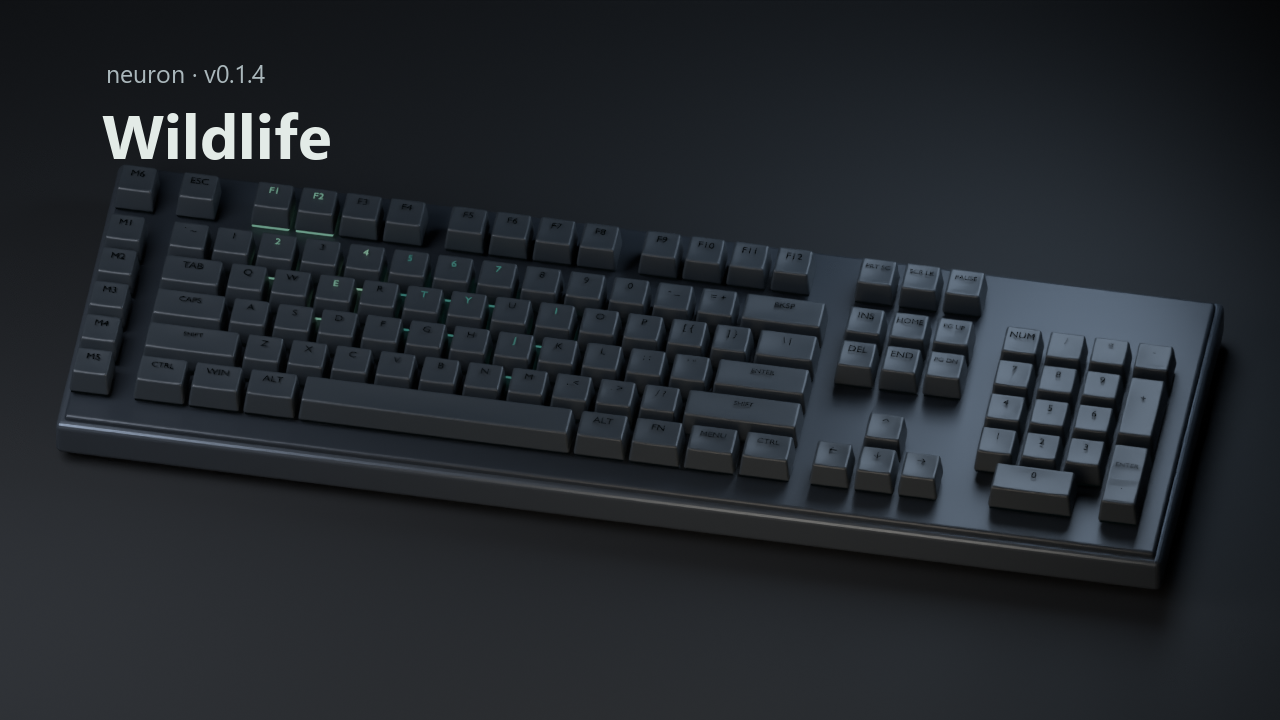
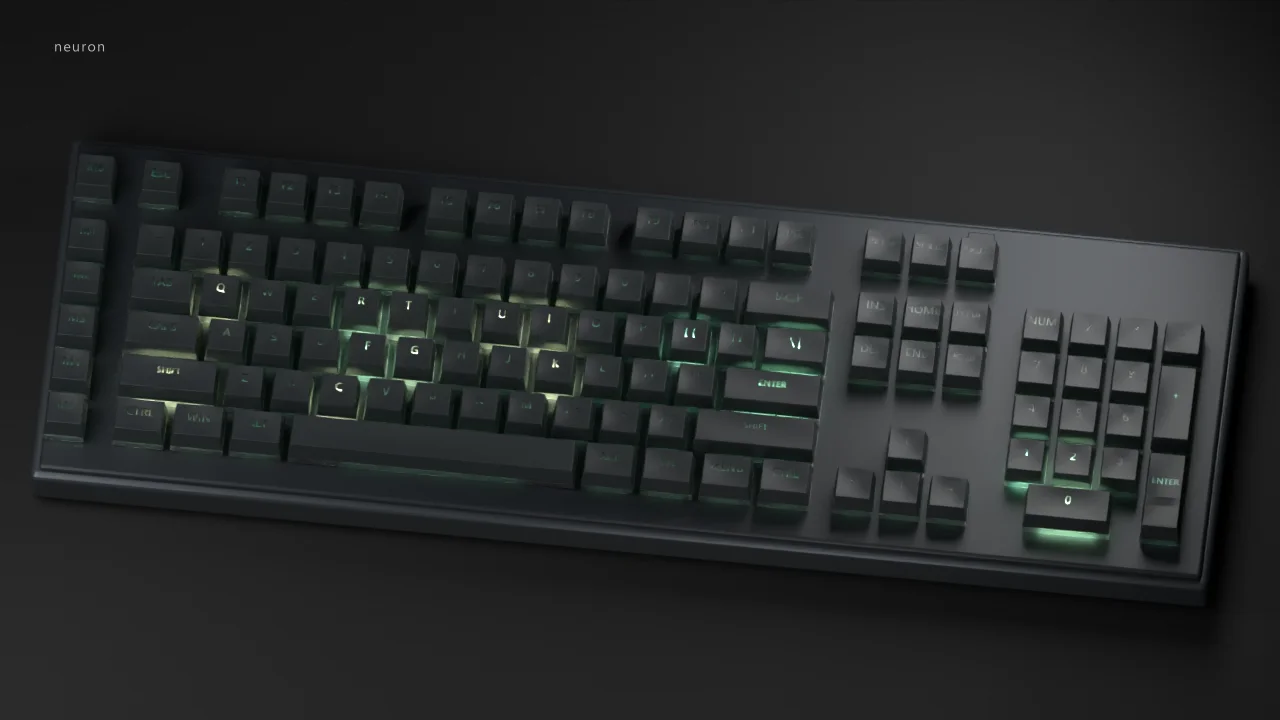
Verify existing stop editor and polish approved Wildlife showcase

Changed region(s): [[0.0312, 0.1528, 1.0, 0.8861], [0.0938, 0.0917, 0.2188, 0.1222], [0.0312, 0.0611, 0.0625, 0.0917]]

diff --git a/crates/neuron-app/src/readme_shots.rs b/crates/neuron-app/src/readme_shots.rs
@@ -8,6 +8,7 @@
 //! read), `SLINT_BACKEND=winit-software` and `SLINT_SCALE_FACTOR=2` for the window scenes:
 //! `NEURON_SHOT_SCENE=<device|lighting|input|weave|system|profiles> NEURON_SHOT_OUT=<png>
 //! cargo test -p neuron-app --bin neuron-app -- --ignored --exact readme_shots::shot`.
+//! `NEURON_SHOT_GRADIENT=1` renders a three-stop Uniform palette in the lighting scene.
 //! `overlay_radial`, `overlay_glyph` and `notif_cards` dump the real overlay renderer's frames into the
 //! directory named by `NEURON_SHOT_OUT`. Seeded state is demo data; devices are phantoms. The
 //! `docs/media` images are these renders composed over a wallpaper crop with Pillow (not committed).
@@ -119,6 +120,13 @@ fn shot() {
 }
 
 fn save_snapshot(app: &AppWindow, path: &str) {
+    if env("NEURON_SHOT_SCENE").as_deref() == Some("lighting") && env("NEURON_SHOT_GRADIENT").is_some() {
+        let st = app.global::<State>();
+        assert_eq!(st.get_light_stops().row_count(), 3, "gradient must survive device restoration and persistence");
+        let pixels = st.get_grid_px();
+        let first = pixels.row_data(0).unwrap();
+        assert!((1..pixels.row_count()).any(|i| pixels.row_data(i).unwrap() != first), "preview must contain a gradient");
+    }
     let shot = app.window().take_snapshot().unwrap();
     let rgb: Vec<u8> = shot.as_bytes().chunks_exact(4).flat_map(|p| [p[0], p[1], p[2]]).collect();
     image::save_buffer(path, &rgb, shot.width(), shot.height(), image::ColorType::Rgb8).unwrap();
@@ -148,7 +156,8 @@ fn select_and_open(app: &AppWindow, scene: &str) {
     st.set_input_view(view);
     if scene == "lighting" {
         st.set_window_shown(true);
-        st.invoke_pick_tile("aurora".into());
+        let gradient = env("NEURON_SHOT_GRADIENT").is_some();
+        st.invoke_pick_tile(if gradient { "static" } else { "aurora" }.into());
         let weak = app.as_weak();
         let ticker = slint::Timer::default();
         ticker.start(slint::TimerMode::Repeated, Duration::from_millis(80), move || {
@@ -164,6 +173,20 @@ fn select_and_open(app: &AppWindow, scene: &str) {
 /// seed cannot overwrite it before the snapshot.
 fn finish_seed(app: &AppWindow, scene: &str) {
     let st = app.global::<State>();
+    if scene == "lighting" && env("NEURON_SHOT_GRADIENT").is_some() {
+        // Device selection restores saved lighting asynchronously; edit only after its readouts settle.
+        assert_ne!(st.get_idle_readout().as_str(), "…");
+        st.invoke_pick_tile("static".into());
+        st.invoke_add_stop(0.5);
+        st.invoke_add_stop(0.5);
+        let count = st.get_light_stops().row_count();
+        assert_eq!(count, 3);
+        st.invoke_set_stop_color(0, "FF3D56".into());
+        st.invoke_set_stop_color((count - 1) as i32, "45E0B5".into());
+        st.invoke_set_stop_color(1, "668CFF".into());
+        st.invoke_move_stop((count - 1) as i32, 1.0);
+        st.invoke_move_stop(1, 0.5);
+    }
     // readouts a phantom bus cannot answer: plausible and consistent with the device defs
     let rows = st.get_devices();
     let mut keep = Vec::new();

diff --git a/docs/STATUS.md b/docs/STATUS.md
@@ -45,9 +45,11 @@ For device-write evidence and feature gates, see the [README ledger](../README.m
 
 ## Current engineering checks
 
-On Windows on 2026-10-03, `./validate.ps1 -Mode full -Locked` passed for the v0.1.4 candidate: 1,179 core tests, 261 app tests and 239 host tests, plus integration tests, strict Clippy, gated-write feature checks, an optimized release build and the CI-safe ignored tests. Disarmed software-renderer screenshots checked the controller editor and lighting page. The Wildlife promotional mock reads the installed v0.1.4 app's resolved RGB frames through its read-only OpenRGB controller-data interface, retaining the live compositor clock and input observations. Captured RGB arrays match the original packet bytes. The existing 6×22 key map drives a Cycles OptiX render on an RTX 3060, with unit LED emission, Standard colour management and normal-speed 30 fps playback; this does not establish physical LED behavior. No new Linux, Tartarus or Switch Pro hardware run was performed.
+On Windows on 2026-10-03, `./validate.ps1 -Mode full -Locked` passed for the v0.1.4 candidate: 1,179 core tests, 261 app tests and 239 host tests, plus integration tests, strict Clippy, gated-write feature checks, an optimized release build and the CI-safe ignored tests. Disarmed software-renderer screenshots checked the controller editor and lighting page. An earlier Wildlife capture verified resolved RGB arrays against the installed app's read-only OpenRGB packet bytes. The approved promotional video now runs a full 72-second seasonal cycle through the production Rust compositor with declared simulated input providers and timed typing. All 2,160 frames are byte-identical to a fresh export after the palette-coordinate fix. The 6×22 key map drives a Cycles OptiX render on an RTX 3060 at normal-speed 30 fps. Optical gain, materials and key travel are estimates; this does not establish physical LED behavior. No new Linux, Tartarus or Switch Pro hardware run was performed.
 
-The locally prepared v0.1.4 static-runtime Windows installer updated the development machine on 2026-10-03. The running app, installed CLI and SOURCE record report v0.1.4; all three installed executables match staging by SHA-256. The protected broker also matches staging, and the enabled Limited startup task and Start Menu shortcut target the installer-managed app. All 17 backed-up configuration files remain byte-identical. This is a local candidate installation, without a GitHub Actions provenance attestation; public release remains pending owner review of the video.
+The locally prepared v0.1.4 static-runtime Windows installer updated the development machine on 2026-10-03. The running app, installed CLI and SOURCE record report v0.1.4; all three installed executables match staging by SHA-256. The protected broker also matches staging, and the enabled Limited startup task and Start Menu shortcut target the installer-managed app. All 17 backed-up configuration files remain byte-identical. This is a local candidate installation, without a GitHub Actions provenance attestation. The owner approved the revised render; public release is pending final backend verification and the attested release build.
+
+On Windows on 2026-10-04, the existing stop editor rendered a three-stop Static gradient in a disarmed software-renderer run against a phantom BlackWidow Chroma V2 and persisted all three colours. No product controls or layer configuration fields were added. Core regressions cover placement bounds, sparse masks, one-column placements, single cells, solid defaults, and actual Ripple/Starlight frames retaining their intensity while consuming later palette stops. Hardware gradient output was not verified in this check.
 
 On Windows on 2026-10-01, the isolated review app exercised DIRECT filtering, eight-row pagination, editing a filtered binding without changing its neighbours, and reopening saved clipboard and lighting actions. A native clipboard sequence restored a four-format sample, transformed it to `ORDER [7391] SHIPPED`, and restored the original full-format input from session history. A window screenshot produced a PNG and a clipboard image; an image Pocket restored and retained its 4,215,260-byte payload. Region selection opened and cancelled without creating a file; automated dragging shifted focus and cancelled the selector, so completed region capture is not verified. Direct output gain changed the Razer USB sound card from 26% to 27%, Undo restored 26%, and a nested gain/Undo sequence also restored 26%. All nine read-only SYSTEM probes passed, including BlackWidow Chroma V2 firmware and the Seiren V3 Mini endpoint. Review bindings, Pocket contents and history were removed, and the original empty clipboard and output gain were restored. Wildlife was checked in the software preview; its physical LED output and the revised controller casting under live stick movement still need owner testing.
 

diff --git a/.github/releases/v0.1.4.md b/.github/releases/v0.1.4.md
@@ -26,6 +26,8 @@ Tested on a PowerA pad on Windows.
 
 ![Wildlife in motion: source lighting rendered on a mock keyboard](https://raw.githubusercontent.com/worflor/neuron/v0.1.4/docs/media/release-v0.1.4-wildlife-motion.webp)
 
+[Watch the full seasonal cycle](https://github.com/worflor/neuron/releases/download/v0.1.4/neuron-v0.1.4-wildlife.mp4). Production lighting code, simulated typing, rendered keyboard.
+
 The other effects got attention too: Fire gains drifting wind, Starlight gets shaped twinkles and a little shimmer, Reactive and Ripple respond to holding and releasing keys, and Typing Heat builds while you hold. Saved lighting effects also survive editing more reliably.
 
 ## New actions!!
